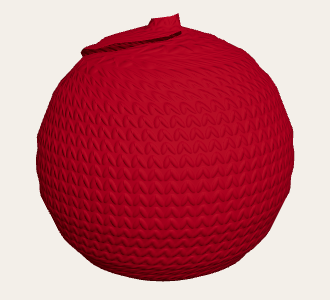
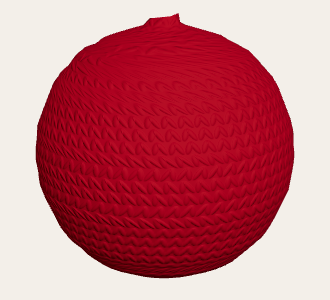
Fase 4, T21 en la web: muestra supuesta por parte (BUG-QA4-1), "ganchillo" y textos de ayuda
- assumedGaugeOfPart: una sola fuente para el validador, describeWritten, las
  medidas, las siluetas, el 3D y el panel (lana inicial de la parte, grosor 4
  si no es numérico). El panel lista la muestra por parte cuando difieren.
- Aviso de prototipo con "ganchillo" y "La pelusa del mohair y de las lanas
  peludas no se dibuja."
- Textos de ayuda C5 (base ovalada, modo UK, desde dónde se cuenta, grosor de
  la lana nueva).
- Capturas 3D de fibra regeneradas sin la lengüeta.
Pruebas: 1075 Vitest; E2E sin sesión 116/116 y con sesión 63/63.

diff --git a/apps/web/test/qa-fase4.test.ts b/apps/web/test/qa-fase4.test.ts
@@ -7,9 +7,8 @@
  *    `ratio` = Δr/s con tres decimales) que validar con `assumedGauge` = `suggestedGauge(cat, "crochet")` y el punto
  *    traducido de `assumption`. El `ratio` depende del ancho del punto y del alto de la vuelta: una diferencia en
  *    puntos, vueltas o punto de la muestra cambia el resultado.
- * 2. BUG-QA4-1: la muestra supuesta tiene dos fuentes (ADR 0011, T14-5). El panel de la muestra, el validador y la
- *    descripción accesible usan el grosor de la lana A; el 3D, las medidas de la lista de partes y las siluetas usan
- *    la lana inicial de cada parte. No se corrige aquí: lo decide `experto-tejido` en T21.
+ * 2. BUG-QA4-1 (corregido en T21, C1): la muestra supuesta sale de una sola fuente, `assumedGaugeOfPart`: la lana
+ *    inicial de cada parte, en el validador, la descripción, el panel, las medidas, las siluetas y el 3D.
  * 3. Casos F4 de textos de la interfaz: F4-44, F4-54, F4-79 (aviso de prototipo), F4-72 a F4-74 (nombres de los
  *    límites), F4-80 (forma C-17), F4-81 (aviso de `#`) y F4-82 (ayuda de los límites).
  */
@@ -19,6 +18,7 @@ import { suggestedGauge } from "@loopitalab/yarn-catalog";
 import { describe, expect, it } from "vitest";
 import { metricsResolver, partSummaries, silhouettesOf } from "@/components/amigurumi/metrics.ts";
 import { VIEWER_3D_TEXTS } from "@/components/amigurumi/texts.ts";
+import { assumedGaugeOfPart } from "@/lib/amigurumi/assumed-gauge.ts";
 import { writtenValidateOptions } from "@/lib/amigurumi/review.ts";
 import { AMIGURUMI_TEXTS, LIMIT_NAMES } from "@/lib/amigurumi/texts.ts";
 
@@ -89,43 +89,45 @@ describe("prueba cruzada: muestra de crochet del validador = suggestedGauge(cat,
       const s = suggestedGauge(cat, "crochet")!;
       const single: WrittenPattern = { ...doc, yarns: [yarn("A", cat, "#E9DDBE")] };
       const opts = writtenValidateOptions(single);
-      expect(opts.assumedGauge).toEqual({ stitchesPer10cm: s.stitchesPer10cm, rowsPer10cm: s.rowsPer10cm });
-      expect(opts.assumedGaugeStitch).toBe(stitchOf(s.assumption));
+      expect(opts.assumedGaugeOf?.(single.parts[0]!, 0)).toEqual({ gauge: { stitchesPer10cm: s.stitchesPer10cm, rowsPer10cm: s.rowsPer10cm }, stitch: stitchOf(s.assumption) });
     }
   });
 });
 
-describe("BUG-QA4-1: la muestra supuesta tiene dos fuentes (ADR 0011, T14-5)", () => {
+describe("BUG-QA4-1: la muestra supuesta sale de una sola fuente (revisión T21, C1)", () => {
   // Lana A fina (categoría 1) y lana B gruesa (categoría 6). La parte empieza con la B. Sin muestra en el documento.
   const body = part(["Parte: Cuerpo", "Inicio: AM", "Construcción: espiral", "Lana: B", "V1: 6 pb (6)", "V2: aum x6 (12)", "V3: [pb, aum] x6 (18)", "V4-8: 18 pb (18)"].join("\n"), "cuerpo");
   const doc: WrittenPattern = { ...newWrittenPattern({ id: ID, title: "Dos lanas", yarns: [yarn("A", 1, "#E9DDBE"), yarn("B", 6, "#BA222C")], partName: "x" }), parts: [body] };
+  const describedOf = (d: WrittenPattern) =>
+    describeWritten(d, {
+      assumedGaugeOf: (p) => {
+        const { stitchesPer10cm, rowsPer10cm, gaugeStitch } = assumedGaugeOfPart(d, p);
+        return { stitchesPer10cm, rowsPer10cm, gaugeStitch };
+      },
+    });
 
-  it("hoy: el validador y la descripción usan la lana A; el 3D, las medidas y las siluetas, la lana inicial de la parte", () => {
-    const a = suggestedGauge(1, "crochet")!;
+  it("el validador, la descripción, la lista de medidas, las siluetas y el 3D usan la lana inicial de la parte", () => {
     const b = suggestedGauge(6, "crochet")!;
-    // Panel y validador: lana A.
-    expect(writtenValidateOptions(doc).assumedGauge).toEqual({ stitchesPer10cm: a.stitchesPer10cm, rowsPer10cm: a.rowsPer10cm });
-    expect(AMIGURUMI_TEXTS.muestra.supuesta(a.stitchesPer10cm, a.rowsPer10cm)).toContain("según el grosor de la lana A");
-    // 3D (controller → metricsResolver), lista de medidas y siluetas: lana B, la inicial de la parte.
-    const m = metricsResolver(doc)(body);
-    expect(m.stitchWidthCm).toBeCloseTo(10 / b.stitchesPer10cm, 9);
-    // Descripción accesible, armada como en WrittenStudio (con la lana A).
-    const desc = describeWritten(doc, { assumedGauge: { stitchesPer10cm: a.stitchesPer10cm, rowsPer10cm: a.rowsPer10cm, gaugeStitch: stitchOf(a.assumption) } });
-    const described = desc.parts[0]?.measures?.heightCm;
-    const summary = partSummaries(doc)[0]!;
-    const silhouette = silhouettesOf(doc)[0]!;
+    const g = assumedGaugeOfPart(doc, body);
+    expect(g).toMatchObject({ stitchesPer10cm: b.stitchesPer10cm, rowsPer10cm: b.rowsPer10cm, gaugeStitch: stitchOf(b.assumption), weight: 6 });
+    expect(writtenValidateOptions(doc).assumedGaugeOf?.(body, 0)).toEqual({ gauge: { stitchesPer10cm: b.stitchesPer10cm, rowsPer10cm: b.rowsPer10cm }, stitch: stitchOf(b.assumption) });
+    expect(AMIGURUMI_TEXTS.muestra.supuesta(b.stitchesPer10cm, b.rowsPer10cm)).toContain("según el grosor de la lana con que empieza esta parte");
+    expect(metricsResolver(doc)(body).stitchWidthCm).toBeCloseTo(10 / b.stitchesPer10cm, 9);
+    const described = describedOf(doc).parts[0]?.measures?.heightCm;
     expect(described).toBeDefined();
-    // La misma pieza mide distinto en la descripción y en la lista de medidas del 3D (más del doble).
-    expect(summary.heightCm / (described as number)).toBeGreaterThan(2);
-    expect(silhouette.heightCm).toBeCloseTo(summary.heightCm, 9);
+    expect(partSummaries(doc)[0]!.heightCm).toBeCloseTo(described as number, 6);
+    expect(silhouettesOf(doc)[0]!.heightCm).toBeCloseTo(partSummaries(doc)[0]!.heightCm, 9);
   });
 
-  // `it.fails`: pasa mientras el bug exista. Cuando T21 decida una sola fuente y se corrija, esta prueba falla y
-  // hay que quitarle el `.fails`.
-  it.fails("esperado: la descripción y la lista de medidas dan el mismo alto para la misma pieza", () => {
-    const a = suggestedGauge(1, "crochet")!;
-    const desc = describeWritten(doc, { assumedGauge: { stitchesPer10cm: a.stitchesPer10cm, rowsPer10cm: a.rowsPer10cm, gaugeStitch: stitchOf(a.assumption) } });
-    expect(partSummaries(doc)[0]!.heightCm).toBeCloseTo(desc.parts[0]!.measures!.heightCm as number, 6);
+  it("sin grosor conocido cae al grosor 4, marcado como supuesto", () => {
+    const odd: WrittenPattern = { ...doc, yarns: [{ ...yarn("A", 1, "#E9DDBE"), weight: "x" as unknown as WeightCategory }, doc.yarns[1]!], parts: [{ ...body, startYarn: "A" }] };
+    expect(assumedGaugeOfPart(odd, odd.parts[0]!).weight).toBe(4);
+  });
+
+  it("el validador y la descripción coinciden con el 3D también en los avisos de forma (grosor distinto por parte)", () => {
+    const fine = validatePattern(doc, writtenValidateOptions(doc)).issues.map((i) => i.code);
+    const viaPart = validatePattern(doc, { assumedGauge: { stitchesPer10cm: suggestedGauge(6, "crochet")!.stitchesPer10cm, rowsPer10cm: suggestedGauge(6, "crochet")!.rowsPer10cm }, assumedGaugeStitch: stitchOf(suggestedGauge(6, "crochet")!.assumption) }).issues.map((i) => i.code);
+    expect(fine).toEqual(viaPart);
   });
 });
 
@@ -133,7 +135,7 @@ describe("casos F4 de textos de la interfaz", () => {
   it("F4-44, F4-54 y F4-79: el aviso de prototipo menciona el relleno y la tensión de amigurumi", () => {
     // validar con tejedora (textos de T18).
     expect(VIEWER_3D_TEXTS.avisoPrototipo).toContain("El relleno redondea la pieza y puede cambiar sus medidas");
-    expect(VIEWER_3D_TEXTS.avisoPrototipo).toContain("El amigurumi se teje más apretado que una muestra plana: teje una muestra con tu aguja");
+    expect(VIEWER_3D_TEXTS.avisoPrototipo).toContain("El amigurumi se teje más apretado que una muestra plana: teje una muestra con tu ganchillo");
     expect(AMIGURUMI_TEXTS.muestra.ayuda).toContain("El amigurumi se teje apretado");
   });
 

diff --git a/apps/web/src/lib/amigurumi/texts.ts b/apps/web/src/lib/amigurumi/texts.ts
@@ -62,10 +62,10 @@ export const AMIGURUMI_TEXTS = {
     pestanaBloques: "Bloques",
     etiquetaTexto: (name: string) => `Patrón escrito de «${name}»`,
     ayuda:
-      "Una vuelta por línea, por ejemplo «V2: aum x6 (12)»; en una parte por hileras, «H2». Una línea que empieza con > es una nota de la vuelta de arriba. «Cantidad: 2» dice cuántas veces se teje la parte (también se lee «Hacer», «Piezas» y «Tejer»). Una base ovalada se escribe con «Inicio: AM» y todos sus puntos en la V1: el 3D la dibuja redonda. Al salir de una línea, se escribe en su forma de siempre (por ejemplo, «pb x6» pasa a «6 pb»).", // validar con tejedora
+      "Una vuelta por línea, por ejemplo «V2: aum x6 (12)»; en una parte por hileras, «H2». Una línea que empieza con > es una nota de la vuelta de arriba. «Cantidad: 2» dice cuántas veces se teje la parte (también se lee «Hacer», «Piezas» y «Tejer»). Una base ovalada se escribe con «Inicio: AM» y todos sus puntos en la V1: el 3D la dibuja redonda y puede aparecer un aviso informativo por la cantidad de puntos del anillo, que es esperado. Al salir de una línea, se escribe en su forma de siempre (por ejemplo, «pb x6» pasa a «6 pb»).", // validar con tejedora
     dialecto: (d: Dialect) =>
       d === "uk"
-        ? "Abreviaturas: inglés del Reino Unido (UK). Ojo: en UK «dc» es el punto bajo (en US, «sc»); «sc» da error. Se leen también las del español." // validar con tejedora
+        ? "Abreviaturas: inglés del Reino Unido (UK). Ojo: en UK «dc» es el punto bajo; en US «dc» es el punto alto y el punto bajo es «sc». Aquí «sc» da error. Se leen también las del español." // validar con tejedora
         : d === "us"
           ? "Abreviaturas: inglés de EE. UU. (US). Se leen también las del español."
           : "Abreviaturas: español. Se leen también las de EE. UU. (US).",
@@ -194,7 +194,8 @@ export const AMIGURUMI_TEXTS = {
     puntos: "Puntos en 10 cm",
     vueltas: "Vueltas en 10 cm",
     ayuda: "En punto bajo, con la lana y el ganchillo que vas a usar. El amigurumi se teje apretado: mide tu muestra.",
-    supuesta: (st: number, rw: number) => `Muestra supuesta: ${n(st)} puntos y ${n(rw)} vueltas en 10 cm, según el grosor de la lana A.`,
+    supuesta: (st: number, rw: number) => `Muestra supuesta: ${n(st)} puntos y ${n(rw)} vueltas en 10 cm, según el grosor de la lana con que empieza esta parte.`,
+    supuestaPorParte: (name: string, st: number, rw: number) => `${name}: ${n(st)} puntos y ${n(rw)} vueltas en 10 cm.`,
     supuestaAyuda: "Sin tu muestra, las medidas y la forma del 3D son un supuesto.",
     quitar: "Usar la muestra supuesta",
     incompleta: "Escribe los puntos y las vueltas en 10 cm.",
@@ -262,7 +263,7 @@ export const AMIGURUMI_TEXTS = {
   armado: {
     titulo: "Armado",
     dondeVa: "Dónde va cada pieza",
-    dondeVaAyuda: "Sale de la posición de cada pieza. Las vueltas se cuentan desde el anillo mágico (o desde la cadeneta inicial), no desde el cuello ni desde el marcador.", // validar con tejedora
+    dondeVaAyuda: "Sale de la posición de cada pieza. Las vueltas (o hileras) se cuentan desde el anillo mágico, la cadeneta inicial o la cadeneta base, no desde el cuello ni desde el marcador.", // validar con tejedora
     sinDescripcion: "Corrige los errores del patrón para ver dónde va cada pieza.",
     sinUbicar: (list: string) => `Sin ubicar (el 3D las acomoda solas, a la derecha): ${list}.`,
     pasos: "Pasos de armado",
@@ -279,7 +280,7 @@ export const AMIGURUMI_TEXTS = {
   lanas: {
     ayuda: "Cada lana tiene una letra (A, B, C…). En el patrón, @B cambia a la lana B; así distingues las lanas aunque no distingas bien los colores.",
     reemplazoPregunta: "¿Con qué lana la reemplazas en el patrón?",
-    eligeReemplazo: "Antes de quitarla, elige la lana que la reemplaza en el patrón (los cambios @ y la lana con que empieza cada parte).", // validar con tejedora
+    eligeReemplazo: "Antes de quitarla, elige la lana que la reemplaza en el patrón (los cambios @ y la lana con que empieza cada parte). Si la lana nueva es de otro grosor, cambian las medidas de la pieza.", // validar con tejedora
   },
 
   tejer: "Seguir un amigurumi punto a punto llega en una próxima versión.",

diff --git a/apps/web/src/components/amigurumi/metrics.ts b/apps/web/src/components/amigurumi/metrics.ts
@@ -1,17 +1,15 @@
-import { partProfile, shapeMetrics, type GaugeStitch, type Part, type PartProfile, type ShapeMetrics, type WrittenPattern } from "@loopitalab/pattern-core";
+import { partProfile, shapeMetrics, type Part, type PartProfile, type ShapeMetrics, type WrittenPattern } from "@loopitalab/pattern-core";
 import { profileToSvg } from "@loopitalab/viewer-3d";
-import { suggestedGauge } from "@loopitalab/yarn-catalog";
+import { assumedGaugeOfPart } from "@/lib/amigurumi/assumed-gauge.ts";
 
 /*
  * Muestra de cada parte para la forma 3D (ADR 0010, sección 1; enmiendas C-3 y T5-1). La resuelve la aplicación:
  * - la del documento, leída como punto bajo;
- * - si falta, la sugerida para crochet por el grosor de la lana inicial de la parte (`suggestedGauge`), marcada
+ * - si falta, la sugerida para crochet por el grosor de la lana inicial de la parte (`assumedGaugeOfPart`), marcada
  *   como supuesta, con `assumption` traducido (`crochet-pa` → `dc`, si no `sc`);
  * - si la lana no tiene un grosor conocido, la del grosor 4 (medio), también supuesta (regla de oro 6: se marca,
  *   no se esconde).
  */
-
-const FALLBACK_WEIGHT = 4;
 
 export function metricsResolver(pattern: WrittenPattern): (part: Part) => ShapeMetrics {
   if (pattern.gauge) {
@@ -19,18 +17,12 @@ export function metricsResolver(pattern: WrittenPattern): (part: Part) => ShapeM
     return () => m;
   }
   const byWeight = new Map<number, ShapeMetrics>();
-  const weightOf = (part: Part): number => {
-    const y = pattern.yarns.find((x) => x.id === part.startYarn) ?? pattern.yarns[0];
-    return typeof y?.weight === "number" ? y.weight : FALLBACK_WEIGHT;
-  };
   return (part) => {
-    const w = weightOf(part);
-    let m = byWeight.get(w);
+    const g = assumedGaugeOfPart(pattern, part);
+    let m = byWeight.get(g.weight);
     if (!m) {
-      const s = suggestedGauge(w, "crochet") ?? suggestedGauge(FALLBACK_WEIGHT, "crochet")!;
-      const gaugeStitch: GaugeStitch = s.assumption === "crochet-pa" ? "dc" : "sc";
-      m = shapeMetrics({ stitchesPer10cm: s.stitchesPer10cm, rowsPer10cm: s.rowsPer10cm }, { assumed: true, gaugeStitch });
-      byWeight.set(w, m);
+      m = shapeMetrics({ stitchesPer10cm: g.stitchesPer10cm, rowsPer10cm: g.rowsPer10cm }, { assumed: true, gaugeStitch: g.gaugeStitch });
+      byWeight.set(g.weight, m);
     }
     return m;
   };

diff --git a/apps/web/src/components/amigurumi/WrittenStudio.tsx b/apps/web/src/components/amigurumi/WrittenStudio.tsx
@@ -2,7 +2,6 @@
 
 import type { Dialect, Issue, LimitUsage, PartRef, RecommendedLimit, WrittenPattern } from "@loopitalab/pattern-core";
 import { describeWritten } from "@loopitalab/pattern-render";
-import { suggestedGauge } from "@loopitalab/yarn-catalog";
 import Link from "next/link";
 import { useCallback, useDeferredValue, useEffect, useId, useMemo, useRef, useState, useSyncExternalStore } from "react";
 import { LegalLinks } from "@/components/SiteFooter";
@@ -13,6 +12,7 @@ import { useSettledDoc } from "@/components/studio/useStoreSelector";
 import { useDesignSession } from "@/components/studio/useStudioSession";
 import { YarnPanel } from "@/components/studio/YarnPanel";
 import { BLOCK_EDIT_POLICY_V1, BlockActions, type BlockEditPolicy } from "@/lib/amigurumi/blocks.ts";
+import { assumedGaugeOfPart } from "@/lib/amigurumi/assumed-gauge.ts";
 import { crossedLimit, limitSummaryCache } from "@/lib/amigurumi/limits.ts";
 import { reviewWritten } from "@/lib/amigurumi/review.ts";
 import { modeOf, pieceRefs, placementOf, sameRef, surfaceFromPick, unplacedFromLayout, type PlacementMode } from "@/lib/amigurumi/placement.ts";
@@ -189,10 +189,15 @@ export function WrittenStudio({ document: initial, updatedAt, ownerId, draftIssu
   const review = useMemo(() => reviewWritten(settled), [settled]);
   const described = useSettledDoc<WrittenPattern>(store, DESCRIBE_SETTLE_MS);
   const description = useMemo(() => {
-    const weight = described.yarns[0]?.weight;
-    const s = typeof weight === "number" ? suggestedGauge(weight, "crochet") : undefined;
-    const assumedGauge = s ? { stitchesPer10cm: s.stitchesPer10cm, rowsPer10cm: s.rowsPer10cm, gaugeStitch: s.assumption === "crochet-pa" ? ("dc" as const) : ("sc" as const) } : undefined;
-    return viewerPerfSpan("describe", () => describeWritten(described, { dialect, ...(assumedGauge ? { assumedGauge } : {}) }));
+    return viewerPerfSpan("describe", () =>
+      describeWritten(described, {
+        dialect,
+        assumedGaugeOf: (part) => {
+          const { stitchesPer10cm, rowsPer10cm, gaugeStitch } = assumedGaugeOfPart(described, part);
+          return { stitchesPer10cm, rowsPer10cm, gaugeStitch };
+        },
+      }),
+    );
   }, [described, dialect]);
 
   // ---------------------------------------------------------------- 3D: resaltado y selección

diff --git a/apps/web/src/lib/amigurumi/review.ts b/apps/web/src/lib/amigurumi/review.ts
@@ -1,5 +1,6 @@
-import { isDraftError, validatePattern, type Issue, type ValidateOptions, type WeightCategory, type WrittenPattern } from "@loopitalab/pattern-core";
-import { FIBER_IDS, PALETTE_IDS, suggestedGauge } from "@loopitalab/yarn-catalog";
+import { isDraftError, validatePattern, type Issue, type ValidateOptions, type WrittenPattern } from "@loopitalab/pattern-core";
+import { FIBER_IDS, PALETTE_IDS } from "@loopitalab/yarn-catalog";
+import { assumedGaugeOfPart } from "./assumed-gauge.ts";
 import { AMIGURUMI_TEXTS } from "./texts.ts";
 import { viewerPerfSpan } from "./viewer-perf.ts";
 
@@ -10,18 +11,19 @@ import { viewerPerfSpan } from "./viewer-perf.ts";
 
 /**
  * Opciones del validador cuando el documento no trae muestra (regla de oro 6: el supuesto se marca, no se esconde):
- * la muestra de crochet sugerida para el grosor de la lana principal (`suggestedGauge`), con `assumption` traducido
- * al punto de la muestra (`crochet-pa` → `dc`; si no, `sc`). Si `yarn-catalog` no conoce el grosor, `weightCat` y la
- * tabla interna del validador. Con muestra en el documento, ninguna de las dos.
+ * la muestra supuesta de cada parte, según la lana con que empieza (`assumedGaugeOfPart`, revisión T21 C1). Con
+ * muestra en el documento, ninguna.
  */
 export function writtenValidateOptions(pattern: WrittenPattern): ValidateOptions {
   const base: ValidateOptions = { fibers: FIBER_IDS, paletteIds: PALETTE_IDS };
   if (pattern.gauge) return base;
-  const weight = pattern.yarns[0]?.weight;
-  if (typeof weight !== "number") return base;
-  const s = suggestedGauge(weight, "crochet");
-  if (s) return { ...base, assumedGauge: { stitchesPer10cm: s.stitchesPer10cm, rowsPer10cm: s.rowsPer10cm }, assumedGaugeStitch: s.assumption === "crochet-pa" ? "dc" : "sc" };
-  return { ...base, weightCat: weight as WeightCategory };
+  return {
+    ...base,
+    assumedGaugeOf: (part) => {
+      const g = assumedGaugeOfPart(pattern, part);
+      return { gauge: { stitchesPer10cm: g.stitchesPer10cm, rowsPer10cm: g.rowsPer10cm }, stitch: g.gaugeStitch };
+    },
+  };
 }
 
 export type Hint = "ring" | "join" | "turning_chain";

diff --git a/apps/web/src/components/amigurumi/WrittenGauge.tsx b/apps/web/src/components/amigurumi/WrittenGauge.tsx
@@ -1,7 +1,7 @@
 "use client";
 
 import type { WrittenPattern } from "@loopitalab/pattern-core";
-import { suggestedGauge } from "@loopitalab/yarn-catalog";
+import { assumedGaugeOfPart } from "@/lib/amigurumi/assumed-gauge.ts";
 import { useEffect, useId, useState } from "react";
 import type { WrittenStore } from "@/lib/amigurumi/store.ts";
 import { AMIGURUMI_TEXTS } from "@/lib/amigurumi/texts.ts";
@@ -43,8 +43,10 @@ export function WrittenGauge({ store, doc }: { store: WrittenStore; doc: Written
     setProblem(r.ok ? null : (r.problems[0] ?? T.incompleta));
   }
 
-  const weight = doc.yarns[0]?.weight;
-  const assumed = !g && typeof weight === "number" ? suggestedGauge(weight, "crochet") : undefined;
+  // Muestra supuesta de cada parte (lana inicial de la parte, `assumedGaugeOfPart`); si difieren, se muestran por parte.
+  const perPart = !g ? doc.parts.map((p) => ({ name: p.name, ...assumedGaugeOfPart(doc, p) })) : [];
+  const assumed = perPart[0];
+  const differ = perPart.some((x) => x.stitchesPer10cm !== assumed?.stitchesPer10cm || x.rowsPer10cm !== assumed?.rowsPer10cm);
   return (
     <section aria-labelledby={`${uid}-t`} className="grid gap-2 rounded-2xl border-2 border-linea bg-superficie p-3" data-testid="written-gauge">
       <h2 id={`${uid}-t`} className="font-display text-base font-bold">
@@ -77,6 +79,13 @@ export function WrittenGauge({ store, doc }: { store: WrittenStore; doc: Written
       ) : assumed ? (
         <div className="grid gap-0.5 text-sm" data-testid="written-assumed-gauge">
           <p className="font-bold">{T.supuesta(assumed.stitchesPer10cm, assumed.rowsPer10cm)}</p>
+          {differ ? (
+            <ul className="list-disc pl-5">
+              {perPart.map((x, i) => (
+                <li key={i}>{T.supuestaPorParte(x.name, x.stitchesPer10cm, x.rowsPer10cm)}</li>
+              ))}
+            </ul>
+          ) : null}
           <p className="text-tinta-suave">{T.supuestaAyuda}</p>
         </div>
       ) : (

diff --git a/apps/web/src/lib/amigurumi/assumed-gauge.ts b/apps/web/src/lib/amigurumi/assumed-gauge.ts
@@ -1,0 +1,25 @@
+import { gaugeWeightOf, type GaugeStitch, type Part, type WrittenPattern } from "@loopitalab/pattern-core";
+import { suggestedGauge } from "@loopitalab/yarn-catalog";
+
+/*
+ * Muestra supuesta de una parte (revisión T21, C1; BUG-QA4-1). Única fuente para el validador, la descripción
+ * accesible, el panel de la muestra y la forma 3D: la lana con que empieza la parte (`gaugeWeightOf`; si no hay
+ * grosor conocido, el grosor 4, medio) y la muestra de crochet que `yarn-catalog` sugiere para ese grosor, con
+ * `assumption` traducido al punto (`crochet-pa` → `dc`; si no, `sc`). Siempre es un supuesto (regla de oro 6).
+ */
+
+export const FALLBACK_WEIGHT = 4;
+
+export interface AssumedPartGauge {
+  stitchesPer10cm: number;
+  rowsPer10cm: number;
+  gaugeStitch: GaugeStitch;
+  /** Grosor CYC usado (el de la lana inicial de la parte o el de respaldo). */
+  weight: number;
+}
+
+export function assumedGaugeOfPart(pattern: Pick<WrittenPattern, "yarns">, part: Pick<Part, "startYarn">): AssumedPartGauge {
+  const weight = gaugeWeightOf(pattern, part) ?? FALLBACK_WEIGHT;
+  const s = suggestedGauge(weight, "crochet") ?? suggestedGauge(FALLBACK_WEIGHT, "crochet")!;
+  return { stitchesPer10cm: s.stitchesPer10cm, rowsPer10cm: s.rowsPer10cm, gaugeStitch: s.assumption === "crochet-pa" ? "dc" : "sc", weight };
+}

diff --git a/apps/web/test/amigurumi-estudio.test.ts b/apps/web/test/amigurumi-estudio.test.ts
@@ -367,13 +367,15 @@ describe("límites recomendados (solo advierten, del motor)", () => {
 });
 
 describe("revisión diferida", () => {
-  it("sin muestra valida con assumedGauge y assumedGaugeStitch (de suggestedGauge); con muestra, sin supuesto", () => {
-    const o = writtenValidateOptions(doc());
-    expect(o.assumedGauge).toBeDefined();
-    expect(o.assumedGaugeStitch === "sc" || o.assumedGaugeStitch === "dc").toBe(true);
+  it("sin muestra valida con assumedGaugeOf (por parte, de suggestedGauge); con muestra, sin supuesto", () => {
+    const d = doc();
+    const o = writtenValidateOptions(d);
+    const r = o.assumedGaugeOf?.(d.parts[0]!, 0);
+    expect(r?.gauge).toBeDefined();
+    expect(r?.stitch === "sc" || r?.stitch === "dc").toBe(true);
     expect(o.weightCat).toBeUndefined();
     const g = writtenValidateOptions(doc({ gauge: { stitchesPer10cm: 20, rowsPer10cm: 22 } }));
-    expect(g.assumedGauge).toBeUndefined();
+    expect(g.assumedGaugeOf).toBeUndefined();
     expect(g.weightCat).toBeUndefined();
   });
 

diff --git a/apps/web/src/components/amigurumi/texts.ts b/apps/web/src/components/amigurumi/texts.ts
@@ -8,7 +8,7 @@ export const VIEWER_3D_TEXTS = {
    * visor y sin botón para cerrarlo.
    */
   avisoPrototipo:
-    "Vista aproximada. La forma y el tamaño reales dependen de tu tensión, la lana y el relleno. El relleno redondea la pieza y puede cambiar sus medidas. El amigurumi se teje más apretado que una muestra plana: teje una muestra con tu aguja para comprobar. El halo y el brillo de la fibra son una aproximación visual.",
+    "Vista aproximada. La forma y el tamaño reales dependen de tu tensión, la lana y el relleno. El relleno redondea la pieza y puede cambiar sus medidas. El amigurumi se teje más apretado que una muestra plana: teje una muestra con tu ganchillo para comprobar. El halo y el brillo de la fibra son una aproximación visual. La pelusa del mohair y de las lanas peludas no se dibuja.",
   etiquetaLienzo: "Vista 3D del amigurumi. Flechas: girar; + y −: acercar y alejar; 0: volver a la vista inicial.",
   cargando: "Cargando la vista 3D…",
   actualizando: "Actualizando 3D…",

diff --git a/apps/web/e2e/webgl.spec.ts b/apps/web/e2e/webgl.spec.ts
@@ -47,8 +47,8 @@ test("visor 3D: dibuja, el aviso de prototipo está visible y cambiar el aspecto
   const notice = page.getByTestId("visor-3d-aviso");
   await expect(notice).toBeVisible();
   await expect(notice).toContainText("redondea la pieza y puede cambiar sus medidas");
-  // C3 de T21: "ganchillo" en crochet (acepta los dos mientras el texto de la interfaz se actualiza).
-  await expect(notice).toContainText(/teje una muestra con tu (aguja|ganchillo)/);
+  // C3 de T21: "ganchillo" en crochet .
+  await expect(notice).toContainText(/teje una muestra con tu ganchillo/);
   await expect(notice.getByRole("button")).toHaveCount(0); // no se puede cerrar
   await expect(page.getByTestId("visor-3d-medidas")).toContainText("estimación");
 

diff --git a/apps/web/test/viewer-3d-adaptador.test.ts b/apps/web/test/viewer-3d-adaptador.test.ts
@@ -244,7 +244,7 @@ describe("medidas y muestra supuesta (secciones 1 y 7)", () => {
 
   it("el aviso de prototipo menciona el relleno y la tensión de amigurumi (enmienda C-11)", () => {
     expect(VIEWER_3D_TEXTS.avisoPrototipo).toContain("redondea la pieza y puede cambiar sus medidas");
-    expect(VIEWER_3D_TEXTS.avisoPrototipo).toContain("teje una muestra con tu aguja");
+    expect(VIEWER_3D_TEXTS.avisoPrototipo).toContain("teje una muestra con tu ganchillo");
     expect(VIEWER_3D_TEXTS.soloEn3d).toContain("el halo y el brillo solo se ven en la vista 3D");
   });
 });

diff --git a/docs/calibracion-fibra-3d.md b/docs/calibracion-fibra-3d.md
@@ -29,13 +29,13 @@ Luminancia 0-255 de los píxeles de la lana: media, percentil 98 (destellos), bo
 
 | Lana | 3D media | 3D p98 | 3D borde | 3D contraste | 2D media | 2D p98 | 2D contraste |
 |---|---|---|---|---|---|---|---|
-| 100 % algodón | 37,2 | 51,4 | 36,3 | 3,1 | 46,2 | 84,6 | 9,6 |
-| 100 % acrílico | 37,2 | 51,4 | 36,3 | 3,1 | 46,2 | 84,6 | 9,6 |
-| 70/30 lana y mohair | 46,3 | 75,2 | 58,6 | 2,4 | 55,4 | 90,8 | 8,5 |
-| 100 % seda | 41,3 | 124,3 | 34,1 | 8,3 | 59,5 | 155,7 | 23,8 |
-| 85/15 algodón y lurex | 38,7 | 58,1 | 36,2 | 3,7 | 47,5 | 90,2 | 10,7 |
-| 100 % mohair | 59,2 | 110,6 | 87,5 | 1,7 | 75,9 | 112,1 | 11,6 |
-| "Colores planos" | 38,0 | 51,6 | 36,4 | 1,7 | 50,7 | 85,2 | 8,6 |
+| 100 % algodón | 37,3 | 51,7 | 35,5 | 2,9 | 46,2 | 84,6 | 9,6 |
+| 100 % acrílico | 37,3 | 51,7 | 35,5 | 2,9 | 46,2 | 84,6 | 9,6 |
+| 70/30 lana y mohair | 46,2 | 74,2 | 57,9 | 2,3 | 55,4 | 90,8 | 8,5 |
+| 100 % seda | 41,4 | 124,3 | 33,4 | 7,8 | 59,5 | 155,7 | 23,8 |
+| 85/15 algodón y lurex | 38,7 | 58,1 | 35,4 | 3,6 | 47,5 | 90,2 | 10,7 |
+| 100 % mohair | 59,2 | 110,5 | 87,7 | 1,5 | 75,9 | 112,1 | 11,6 |
+| "Colores planos" | 38,1 | 51,7 | 35,7 | 1,6 | 50,7 | 85,2 | 8,6 |
 
 Lectura:
 
@@ -44,6 +44,8 @@ Lectura:
 - **Definición**: algodón, acrílico y seda (1) más marcados que lana/mohair (0,35) y mohair (0). El 3D lo traduce en el contraste local.
 - **Colores planos**: en 3D, igual que el algodón sin relieve extra y sin halo ni brillo; en 2D, el tubo sin sombra de fibra.
 - **Diferencias que quedan** (no son fallas de orden): en 3D la media de la seda queda debajo de la lana/mohair (en el 2D, encima) porque el 3D aclara por el borde y no rellena el punto; el mohair puro en 3D tiene casi el mismo contraste que "Colores planos" (el 2D dibuja pelos que el 3D no tiene: la v1 no usa pelaje, ADR 0010).
+
+Las capturas 3D se regeneraron tras corregir la lengüeta de la esfera (cierre en espiral continua, commit c4ab055); las cifras cambian en menos de 1 punto y el orden entre fibras es el mismo. Las capturas 2D no cambian.
 
 ## Capturas
 
